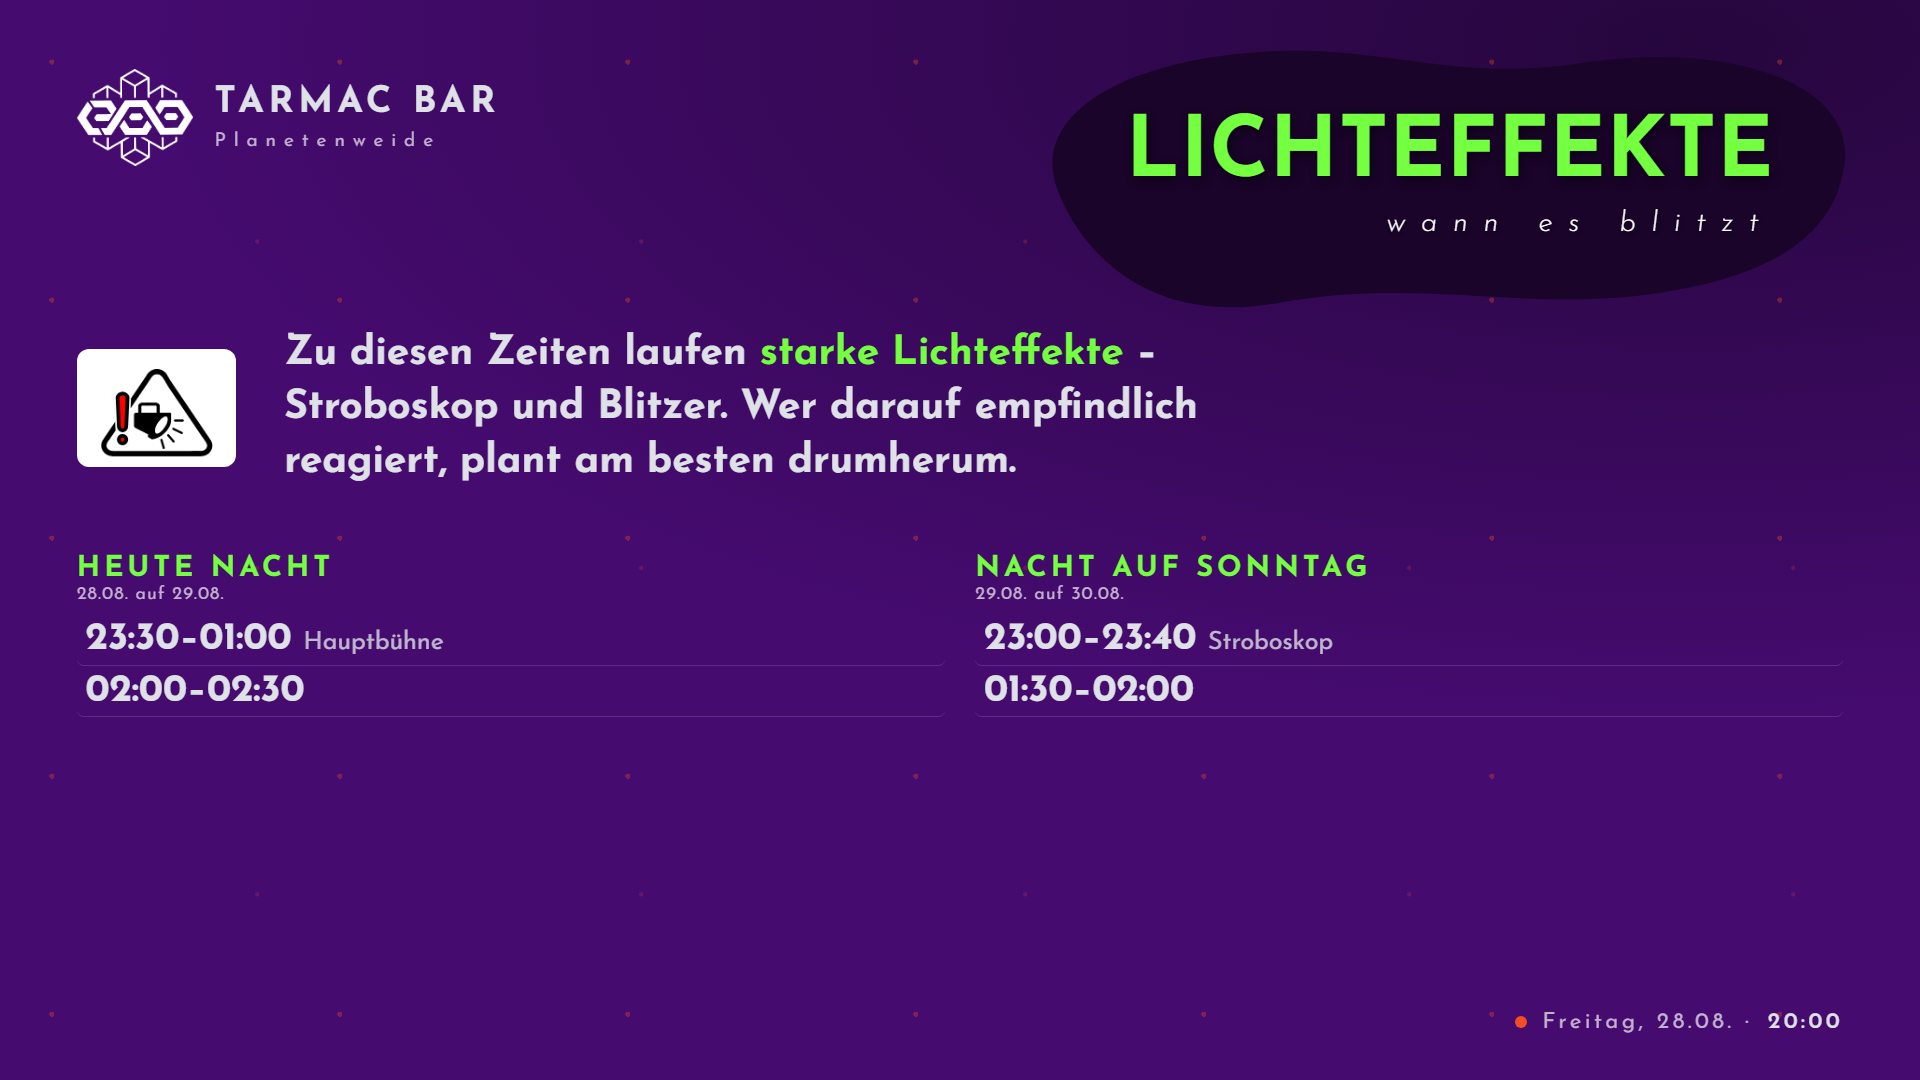
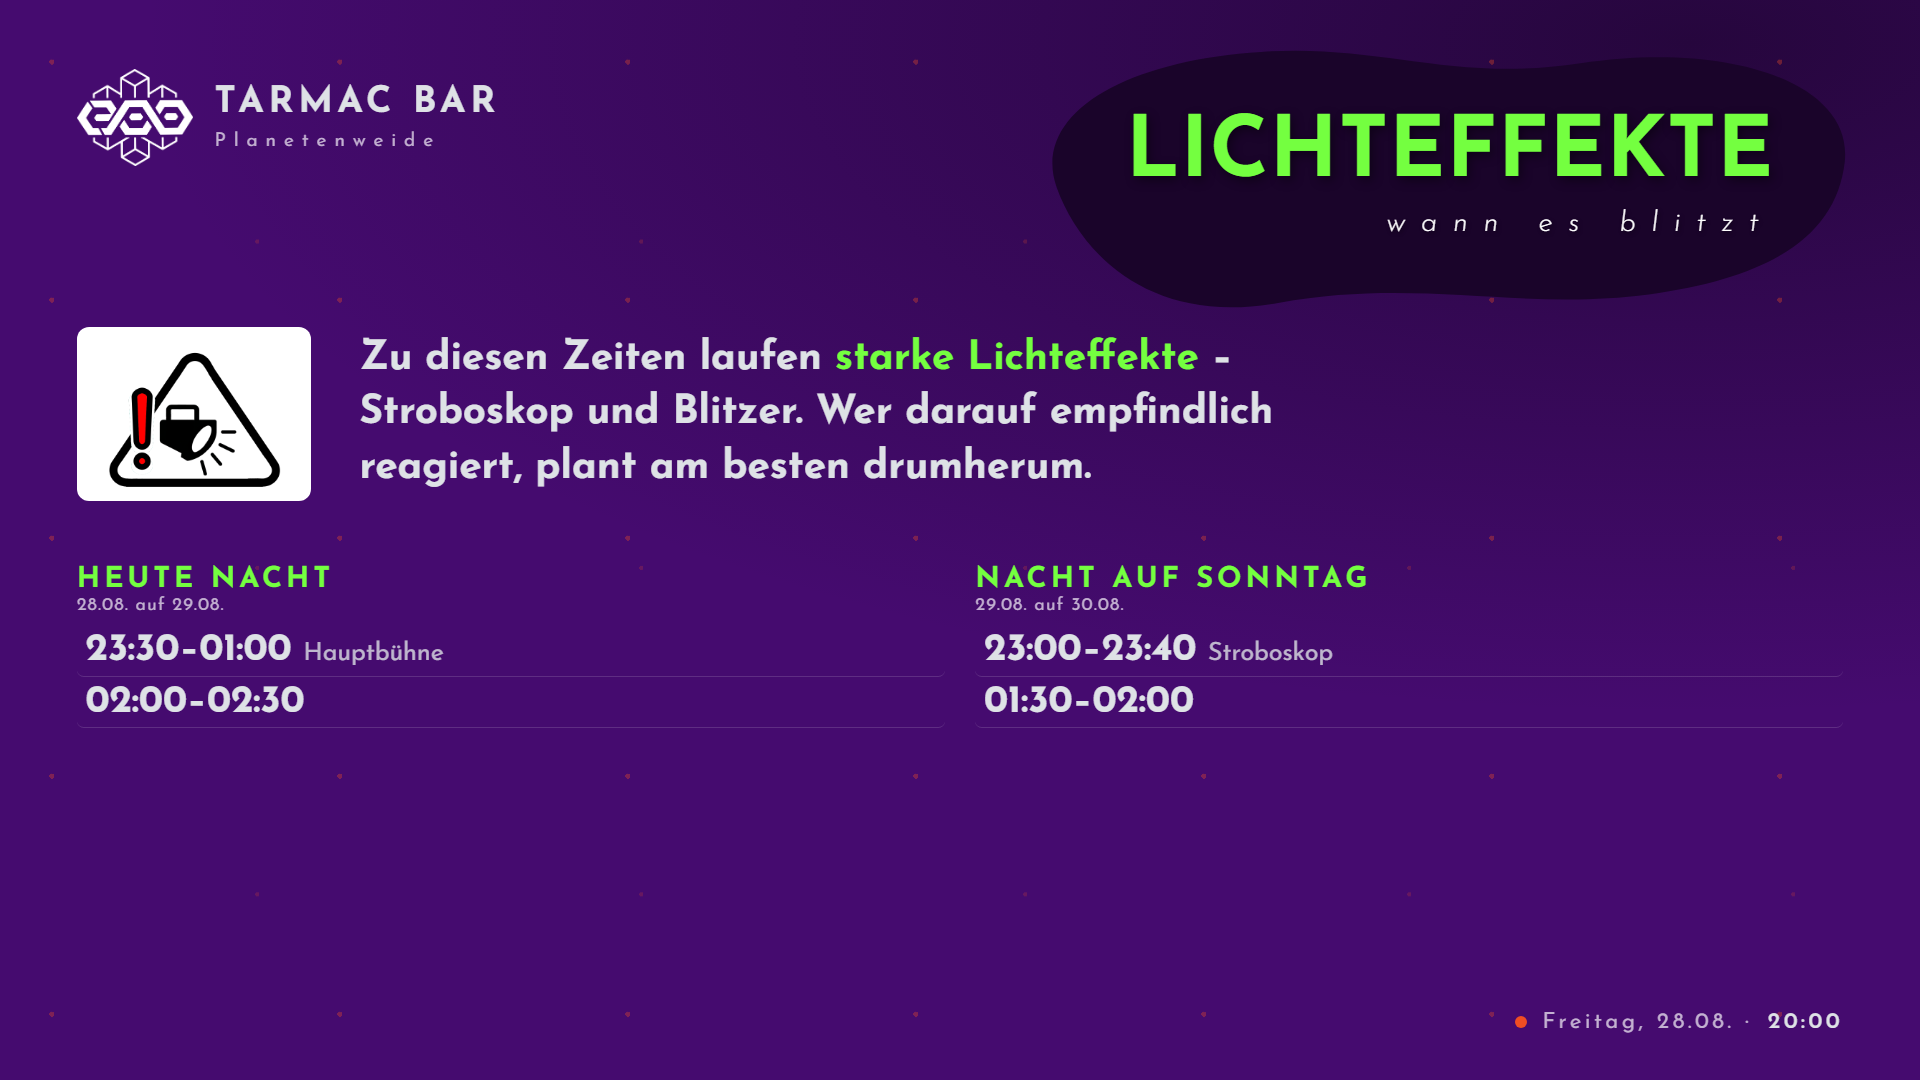
Lichtseite: das Zeichen so hoch wie der Text
Vier Zeilenhoehen statt zweieinhalb - gemessen ist die Plakette damit etwas
hoeher als der Absatz daneben.

Der erste Versuch war, sie ueber die Hoehe des Absatzes zu dehnen. Das schaukelt
sich auf: die Plakette nimmt Breite, der Text bricht dadurch oefter um, wird
hoeher, und die Plakette waechst mit ihm. Am Ende fuellte das Zeichen den halben
Schirm und der Text stand in schmalen Fetzen daneben. Also feste Groesse.

Test: die Plakette ist mindestens so hoch wie der Absatz - und der Text bleibt
der breitere von beiden. Das Zweite haelt genau die Rueckkopplung von oben fest.

Changed region(s): [[0.0312, 0.3056, 0.6562, 0.6722], [0.5, 0.4889, 0.7188, 0.6722]]

diff --git a/test/e2e/lichteffekte.spec.js b/test/e2e/lichteffekte.spec.js
@@ -767,19 +767,29 @@ test.describe('Eigene Seite fuers Wochenende', () => {
       const m = await page.evaluate(() => {
         const p = document.querySelector('.lichtKopf p');
         const zeit = document.querySelector('.lichtSpanne .lz');
-        const bild = document.querySelector('.lichtKopf img');
+        const plakette = document.querySelector('.lichtKopf .lichtZeichen');
         return {
           fett: getComputedStyle(p).fontWeight,
-          text: parseFloat(getComputedStyle(p).fontSize),
-          zeit: zeit ? parseFloat(getComputedStyle(zeit).fontSize) : 0,
-          bild: Math.round(bild.getBoundingClientRect().height)
+          schrift: parseFloat(getComputedStyle(p).fontSize),
+          zeitSchrift: zeit ? parseFloat(getComputedStyle(zeit).fontSize) : 0,
+          absatz: Math.round(p.getBoundingClientRect().height),
+          plakette: Math.round(plakette.getBoundingClientRect().height),
+          plaketteBreit: Math.round(plakette.getBoundingClientRect().width),
+          zeilen: Math.round(p.getBoundingClientRect().width)
         };
       });
       expect(Number(m.fett), 'fett').toBeGreaterThanOrEqual(700);
-      expect(m.text, 'groesser als die Uhrzeiten darunter')
-        .toBeGreaterThan(m.zeit);
-      expect(m.bild, 'und das Zeichen daneben entsprechend gross')
-        .toBeGreaterThan(m.text * 2);
+      expect(m.schrift, 'groesser als die Uhrzeiten darunter')
+        .toBeGreaterThan(m.zeitSchrift);
+
+      // Das Zeichen ist mindestens so hoch wie der Text daneben.
+      expect(m.plakette, 'so hoch wie das Geschriebene')
+        .toBeGreaterThanOrEqual(m.absatz);
+      // Aber es verdraengt den Text nicht: gedehnt schaukelt sich das auf -
+      // die Plakette nimmt Breite, der Text bricht oefter um, wird hoeher, und
+      // die Plakette waechst mit. Der Text muss der breitere bleiben.
+      expect(m.zeilen, 'der Text hat mehr Platz als das Zeichen')
+        .toBeGreaterThan(m.plaketteBreit);
     });
 
   test('ohne Zeiten sagt die Seite das auch', async ({ page, bar }) => {

diff --git a/src/player.css b/src/player.css
@@ -1208,9 +1208,15 @@ body.spar .lichtBalken { background: rgba(255, 255, 255, 0.16); }
 }
 .lichtKopf p { line-height: 1.35; max-width: 40ch; font-weight: 700; }
 .lichtKopf b { color: var(--accent); }
-/* Das Zeichen wird nicht mit dem Text mitgezogen: es sitzt in einem Kasten mit
-   fester Groesse, und der richtet sich nach der Schrift daneben. */
-.lichtKopf .lichtZeichen.gross img { height: 2.6em; }
+/* Das Zeichen ist so hoch wie der Text daneben - aber mit fester Groesse, nicht
+   ueber die Hoehe des Absatzes gedehnt. Gedehnt schaukelt es sich auf: die
+   Plakette nimmt Breite, der Text bricht dadurch oefter um, wird hoeher, und
+   die Plakette wird mit ihm groesser. Am Ende fuellte das Zeichen den halben
+   Schirm und der Text stand in schmalen Fetzen daneben.
+
+   Vier Zeilenhoehen: genau die drei Zeilen, die der Text bei dieser Breite
+   braucht, plus das Polster der Plakette. */
+.lichtKopf .lichtZeichen.gross img { height: 4em; }
 
 .lichtTage { display: flex; flex-wrap: wrap; gap: 1.6em; align-items: flex-start; }
 .lichtTag { flex: 1 1 18em; min-width: 14em; }

diff --git a/README.md b/README.md
@@ -470,9 +470,10 @@ darunter.
 
 ![Übersicht der Lichteffekte](docs/screenshots/anzeige-lichteffekte.png)
 
-Der Einleitungstext steht dort **groß und fett**, mit dem Warnzeichen daneben:
-er ist der Grund, warum es die Seite gibt. Wer photosensibel ist, soll ihn aus
-drei Metern lesen können und nicht erst bei den Uhrzeiten anfangen.
+Der Einleitungstext steht dort **groß und fett**, mit dem Warnzeichen daneben —
+und das ist mindestens so hoch wie der Text selbst. Er ist der Grund, warum es
+die Seite gibt: wer photosensibel ist, soll ihn aus drei Metern lesen können und
+nicht erst bei den Uhrzeiten anfangen.
 
 Das Warnzeichen sitzt überall auf einer weißen Plakette. Die gelieferte Grafik
 ist für hellen Grund gezeichnet — schwarzes Dreieck, schwarzer Scheinwerfer —
